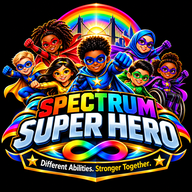
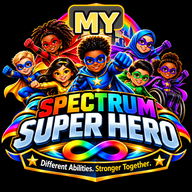
Add files via upload

Changed region(s): [[0.3438, 0.0, 0.6562, 0.1875]]

diff --git a/index.html b/index.html
@@ -1,9 +1,9 @@
 <!doctype html>
 <html lang="en">
 <head>
-<!-- Spectrum Super Hero Connected App v24 -->
+<!-- My My Spectrum Super Hero Connected App v24 -->
 <meta charset="utf-8"><meta name="viewport" content="width=device-width,initial-scale=1">
-<meta name="theme-color" content="#6b5cff"><link rel="manifest" href="manifest.webmanifest"><meta name="apple-mobile-web-app-capable" content="yes"><meta name="apple-mobile-web-app-status-bar-style" content="black-translucent"><link rel="apple-touch-icon" href="icon-192.png"><title>Spectrum Super Hero • v47</title>
+<meta name="theme-color" content="#6b5cff"><link rel="manifest" href="manifest.webmanifest"><meta name="apple-mobile-web-app-capable" content="yes"><meta name="apple-mobile-web-app-status-bar-style" content="black-translucent"><link rel="apple-touch-icon" href="icon-192.png"><title>My My Spectrum Super Hero • v50</title>
 <style>
 :root{--ink:#172033;--muted:#647084;--bg:#f6f8fc;--card:#fff;--brand:#6b5cff;--brand2:#ff7894;--line:#e5e9f2;--ok:#167a55;--warn:#795400}*{box-sizing:border-box}body{margin:0;font-family:-apple-system,BlinkMacSystemFont,"Segoe UI",system-ui,sans-serif;background:var(--bg);color:var(--ink)}button,input,select{font:inherit}button{cursor:pointer}.top{position:sticky;top:0;z-index:5;background:#fffffff2;border-bottom:1px solid var(--line);padding:12px 16px;display:flex;justify-content:space-between;align-items:center}.brand{display:flex;align-items:center;gap:10px;font-weight:800;font-size:18px}.mark{width:40px;height:40px;border-radius:50%;display:grid;place-items:center;color:#fff;font-weight:900;background:linear-gradient(135deg,#ff7894,#ffc857,#5ed1b8,#6b5cff)}.nav{display:flex;gap:6px;overflow:auto;background:#fff;border-bottom:1px solid var(--line);padding:8px 12px}.nav button{border:0;background:transparent;padding:9px 11px;border-radius:12px;color:var(--muted);white-space:nowrap}.nav button.active{background:#eeeaff;color:var(--brand);font-weight:700}.banner{padding:10px 14px;text-align:center;background:#fff7df;color:var(--warn);font-size:14px}.banner.ok{background:#eaf8f1;color:var(--ok)}.wrap{max-width:1050px;margin:auto;padding:20px 14px 80px}.hero{background:linear-gradient(135deg,#6b5cff,#8c7cff 48%,#ff7894);color:white;border-radius:24px;padding:28px;margin-bottom:22px}.hero h1{font-size:clamp(34px,8vw,56px);margin:0 0 8px}.hero p{font-size:18px;line-height:1.45;margin:5px 0}.section{display:none}.section.active{display:block}.grid{display:grid;grid-template-columns:repeat(auto-fit,minmax(220px,1fr));gap:14px}.card{background:#fff;border:1px solid var(--line);border-radius:18px;padding:17px;box-shadow:0 5px 18px #17203308}.card h3{margin:4px 0 8px}.card p{color:var(--muted);line-height:1.5}.pill{display:inline-block;padding:5px 9px;border-radius:999px;background:#f0efff;color:var(--brand);font-size:12px;font-weight:700}.cta{border:0;border-radius:12px;padding:11px 14px;background:var(--brand);color:white;font-weight:700}.secondary{background:#eef0f6;color:var(--ink)}.search{display:flex;gap:8px;margin:14px 0}.search input,.search select{width:100%;padding:12px;border:1px solid var(--line);border-radius:12px;background:#fff}.footer{text-align:center;color:var(--muted);font-size:13px;margin-top:28px}.profile-row{display:flex;justify-content:space-between;gap:10px;padding:12px 0;border-bottom:1px solid var(--line)}.stats-grid{display:grid;grid-template-columns:repeat(4,minmax(0,1fr));gap:12px;margin-top:14px}.stat{background:#f8f7ff;border:1px solid #e8e4ff;border-radius:16px;padding:16px}.stat strong{display:block;font-size:28px;margin-top:4px}.progress-track{height:10px;background:#edf0f5;border-radius:999px;overflow:hidden}.progress-bar{height:100%;background:linear-gradient(90deg,var(--brand),var(--brand2));border-radius:999px}.history-item{padding:13px 0;border-bottom:1px solid var(--line)}.history-item:last-child{border-bottom:0}.empty{color:var(--muted);padding:10px 0}@media(max-width:900px){.stats-grid{grid-template-columns:repeat(2,minmax(0,1fr))}}@media(max-width:600px){.stats-grid{grid-template-columns:1fr}}.modal{position:fixed;inset:0;background:#17203388;display:none;align-items:center;justify-content:center;padding:20px;z-index:20}.modal.open{display:flex}.modal-box{background:#fff;border-radius:20px;max-width:760px;width:100%;max-height:85vh;overflow:auto;padding:24px}.modal-actions{display:flex;gap:8px;flex-wrap:wrap;margin-top:16px}.lesson-intro{font-size:17px;line-height:1.65;color:var(--ink)}.modal-box h2{margin-top:8px}.modal-box h3{margin-bottom:8px}.feature-head{display:flex;justify-content:space-between;align-items:flex-start;gap:12px}.feature-icon{width:44px;height:44px;border-radius:14px;display:grid;place-items:center;background:#f0efff;color:var(--brand);font-weight:900;font-size:20px}.checklist{list-style:none;padding:0;margin:10px 0}.checklist li{display:flex;gap:10px;align-items:flex-start;padding:9px 0;border-bottom:1px solid var(--line);color:var(--muted);line-height:1.5}.checklist li:last-child{border-bottom:0}.check{width:22px;height:22px;accent-color:var(--brand);flex:0 0 auto}.tip{background:#f8f7ff;border:1px solid #e8e4ff;border-radius:14px;padding:14px;margin-top:14px}.mini-nav{display:flex;gap:8px;flex-wrap:wrap;margin:14px 0}.mini-nav button{border:1px solid var(--line);background:#fff;color:var(--ink);border-radius:999px;padding:8px 12px}.fact{border-left:5px solid var(--brand);padding:14px 16px;background:#fff;border-radius:12px}.myth{font-weight:800;color:#9b3852}.fact-title{font-weight:800;color:var(--ok)}@media(max-width:600px){.grid{grid-template-columns:1fr}.search{flex-direction:column}}
 
@@ -12,7 +12,7 @@ body.high-contrast{--ink:#000;--muted:#222;--bg:#fff;--card:#fff;--line:#111;--b
 
 .brand-logo{width:42px;height:42px;object-fit:cover;border-radius:12px;background:#111}.hero-logo{max-width:340px;margin:0 auto 18px;background:#101018;border-radius:22px;padding:10px;box-shadow:0 12px 35px #17203333}.hero-logo img{display:block;width:100%;height:auto;border-radius:16px}.top .brand span{font-size:17px}@media(max-width:600px){.brand-logo{width:38px;height:38px}.top .brand span{font-size:15px}.hero-logo{max-width:290px}}
 .superhero-visual{display:block;width:100%;max-width:900px;margin:18px auto 0;border-radius:20px;border:3px solid #ffffff66;box-shadow:0 12px 35px #17203344}.brand-logo{object-fit:contain;background:#101018}.hero-logo{background:#101018}
-/* Spectrum Super Hero v23 visual redesign */
+/* My My Spectrum Super Hero v23 visual redesign */
 :root{--ink:#18213a;--muted:#66718a;--bg:#eef3fb;--card:#fff;--brand:#6248ff;--brand2:#ff5f91;--cyan:#25c7e8;--yellow:#ffd34e;--green:#35c987;--line:#dce4f2;--navy:#10162d}
 body{background:radial-gradient(circle at 10% 0%,#dff8ff 0,transparent 25%),radial-gradient(circle at 90% 10%,#ffe1ed 0,transparent 28%),var(--bg);color:var(--ink)}
 .top{background:linear-gradient(135deg,#10162d,#25245a 58%,#5d3dff);color:#fff;border:0;padding:12px 18px;box-shadow:0 8px 28px #10162d25}
@@ -138,11 +138,11 @@ body{background:radial-gradient(circle at 10% 0%,#dff8ff 0,transparent 25%),radi
 </style>
 </style></head>
 <body>
-<header class="top"><div class="brand"><img class="brand-logo" src="icon-192.png" alt="Spectrum Super Hero logo"><span>Spectrum Super Hero</span></div><div class="top-actions"><div class="top-profile-chip" id="topProfileChip"><span class="avatar" id="topProfileAvatar">🦸</span><span id="topProfileName">My Super Hero</span></div><button class="cta dashboard-top" onclick="show('dashboard')">⭐ My Dashboard</button><button class="cta secondary" onclick="show('journey')">🦸 My Journey</button><button class="cta secondary reward-top" onclick="show('rewards')">🏆 Rewards</button><button class="cta secondary" onclick="show('badges')">🏅 Badges</button><button class="cta secondary" id="profileTopButton" onclick="show('profile')">Profile</button></div></header>
+<header class="top"><div class="brand"><img class="brand-logo" src="icon-192.png" alt="My My Spectrum Super Hero logo"><span>My My Spectrum Super Hero</span></div><div class="top-actions"><div class="top-profile-chip" id="topProfileChip"><span class="avatar" id="topProfileAvatar">🦸</span><span id="topProfileName">My Super Hero</span></div><button class="cta dashboard-top" onclick="show('dashboard')">⭐ My Dashboard</button><button class="cta secondary" onclick="show('journey')">🦸 My Journey</button><button class="cta secondary reward-top" onclick="show('rewards')">🏆 Rewards</button><button class="cta secondary" onclick="show('badges')">🏅 Badges</button><button class="cta secondary" id="profileTopButton" onclick="show('profile')">Profile</button></div></header>
 <nav class="nav" id="nav"></nav>
-<div class="banner" id="banner">Connecting to Spectrum Super Hero cloud data…</div>
+<div class="banner" id="banner">Connecting to My My Spectrum Super Hero cloud data…</div>
 <main class="wrap">
-<section id="home" class="section active"><div class="hero"><div class="hero-logo"><img src="spectrum-super-hero-kids-logo.png" alt="Spectrum Super Hero logo featuring diverse superhero kids"></div><h1>Spectrum Super Hero</h1><p>Different Abilities. Stronger Together.</p><p>A welcoming place to learn, find practical support, celebrate differences, and build inclusive communities.</p><div class="modal-actions"><button class="cta" onclick="startWelcome(true)">Start here</button><button class="cta secondary" onclick="show('quiz')">Test your knowledge</button></div></div><div class="card" style="margin:-4px 0 22px;background:linear-gradient(135deg,#10162d,#25245a);color:white;border:0"><div class="feature-head"><div><span class="pill" style="background:#ffffff18;color:#fff">SUPER HERO MISSION</span><h3 style="font-size:24px;margin-top:9px;color:#fff">Learn. Connect. Advocate.</h3><p style="color:#dce3ff;margin-bottom:0">Choose a path below and build your own support and learning journey.</p></div><div class="feature-icon" style="background:#ffffff18;color:#fff">★</div></div></div><h2>What do you need today?</h2><div class="grid" id="needs"></div><div class="card" id="nextStepCard" style="margin-top:18px"><div class="feature-head"><div><span class="pill">Your next step</span><h3 id="nextStepTitle">Start with a lesson</h3></div><div class="feature-icon">★</div></div><p id="nextStepText">Choose a topic to begin building your Spectrum Super Hero learning path.</p><div class="modal-actions"><button class="cta" id="nextStepButton" onclick="show('learn')">Explore lessons</button><button class="cta secondary" onclick="show('dashboard')">View progress</button></div></div><div class="tip" style="margin-top:18px"><strong>Accessibility first:</strong> Change text size, contrast, motion, and layout preferences from Profile.</div></section>
+<section id="home" class="section active"><div class="hero"><div class="hero-logo"><img src="my-spectrum-super-hero-logo.png" alt="My My Spectrum Super Hero logo featuring diverse superhero kids"></div><h1>My My Spectrum Super Hero</h1><p>Different Abilities. Stronger Together.</p><p>A welcoming place to learn, find practical support, celebrate differences, and build inclusive communities.</p><div class="modal-actions"><button class="cta" onclick="startWelcome(true)">Start here</button><button class="cta secondary" onclick="show('quiz')">Test your knowledge</button></div></div><div class="card" style="margin:-4px 0 22px;background:linear-gradient(135deg,#10162d,#25245a);color:white;border:0"><div class="feature-head"><div><span class="pill" style="background:#ffffff18;color:#fff">SUPER HERO MISSION</span><h3 style="font-size:24px;margin-top:9px;color:#fff">Learn. Connect. Advocate.</h3><p style="color:#dce3ff;margin-bottom:0">Choose a path below and build your own support and learning journey.</p></div><div class="feature-icon" style="background:#ffffff18;color:#fff">★</div></div></div><h2>What do you need today?</h2><div class="grid" id="needs"></div><div class="card" id="nextStepCard" style="margin-top:18px"><div class="feature-head"><div><span class="pill">Your next step</span><h3 id="nextStepTitle">Start with a lesson</h3></div><div class="feature-icon">★</div></div><p id="nextStepText">Choose a topic to begin building your My My Spectrum Super Hero learning path.</p><div class="modal-actions"><button class="cta" id="nextStepButton" onclick="show('learn')">Explore lessons</button><button class="cta secondary" onclick="show('dashboard')">View progress</button></div></div><div class="tip" style="margin-top:18px"><strong>Accessibility first:</strong> Change text size, contrast, motion, and layout preferences from Profile.</div></section>
 <section id="learn" class="section"><h1>Learn & Understand</h1><p>Explore person-centered information about autism, communication, sensory experiences, support, strengths, and inclusion.</p><div class="grid" id="topics"><div class="card">Loading learning topics…</div></div>
 <div class="guided-lessons">
 <h2>Guided lessons</h2>
@@ -166,8 +166,8 @@ body{background:radial-gradient(circle at 10% 0%,#dff8ff 0,transparent 25%),radi
 <section id="resources" class="section">
   <div class="resource-finder">
     <h1>Resource Finder</h1>
-    <p>Find verified organizations and services published in Spectrum Super Hero. These listings come from the Spectrum Super Hero cloud resource directory.</p>
-    <div class="tip"><strong>Resource safety:</strong> Spectrum Super Hero does not endorse a service simply because it appears here. Check eligibility, location, cost, accessibility, and current availability with the provider.</div>
+    <p>Find verified organizations and services published in My My Spectrum Super Hero. These listings come from the My My Spectrum Super Hero cloud resource directory.</p>
+    <div class="tip"><strong>Resource safety:</strong> My My Spectrum Super Hero does not endorse a service simply because it appears here. Check eligibility, location, cost, accessibility, and current availability with the provider.</div>
     <div id="resourceCloudStatus" class="empty" style="margin-top:12px">Connecting to the verified resource directory…</div><div id="resourceDiagnostics" class="empty" style="margin-top:6px;font-size:12px;display:none"></div>
     <div class="resource-filters">
       <input id="resourceSearch" placeholder="Search by organization, service, city, or category…" oninput="filterResources()" aria-label="Search resources">
@@ -283,7 +283,7 @@ body{background:radial-gradient(circle at 10% 0%,#dff8ff 0,transparent 25%),radi
   <div class="card">
     <span class="pill">Make it yours</span>
     <h2>Choose your hero name</h2>
-    <p>This name is stored on this device and is only used to personalize your Spectrum Super Hero journey.</p>
+    <p>This name is stored on this device and is only used to personalize your My My Spectrum Super Hero journey.</p>
     <div class="search">
       <input class="hero-name-input" id="heroNameInput" maxlength="40" placeholder="Enter your hero name">
       <button class="cta" onclick="saveHeroName()">Save hero name</button>
@@ -356,7 +356,7 @@ body{background:radial-gradient(circle at 10% 0%,#dff8ff 0,transparent 25%),radi
   <div class="card">
     <span class="pill">How it works</span>
     <h2>Learn → Earn → Level up</h2>
-    <p>Your activity in Spectrum Super Hero can turn into progress. Complete lessons, save helpful information, and take quizzes to earn XP.</p>
+    <p>Your activity in My My Spectrum Super Hero can turn into progress. Complete lessons, save helpful information, and take quizzes to earn XP.</p>
     <div class="reward-grid">
       <div class="reward-card"><div class="reward-icon">📚</div><h3>Learn</h3><p>10 XP for each completed learning topic.</p></div>
       <div class="reward-card"><div class="reward-icon">🔖</div><h3>Save</h3><p>15 XP for each saved topic or resource.</p></div>
@@ -398,7 +398,7 @@ body{background:radial-gradient(circle at 10% 0%,#dff8ff 0,transparent 25%),radi
   <div class="hero-profile-top">
     <div style="display:flex;gap:16px;align-items:center">
       <div class="hero-avatar" id="profileHeroAvatar">🦸🏽</div>
-      <div class="hero-profile-title"><span class="pill">SPECTRUM SUPER HERO</span><h2 id="profileHeroName">My Super Hero</h2><p id="profileHeroRole">Learning. Growing. Making a difference.</p></div>
+      <div class="hero-profile-title"><span class="pill">MY MY SPECTRUM SUPER HERO</span><h2 id="profileHeroName">My Super Hero</h2><p id="profileHeroRole">Learning. Growing. Making a difference.</p></div>
     </div>
     <div style="text-align:right"><span class="pill">Level <strong id="profileHeroLevel">1</strong></span><div style="font-size:22px;font-weight:900;margin-top:5px" id="profileHeroXp">0 XP</div></div>
   </div>
@@ -415,15 +415,15 @@ body{background:radial-gradient(circle at 10% 0%,#dff8ff 0,transparent 25%),radi
   <div style="margin-top:18px"><strong>Badges</strong><div class="profile-badge-row" id="profileBadgeRow"></div></div>
   <div class="modal-actions"><button class="cta" onclick="show('journey')">Open My Journey</button><button class="cta secondary" onclick="show('dashboard')">View Dashboard</button></div>
 </div>
-<div class="card" style="margin-top:14px"><h3>Account</h3><div class="card"><h3>Account</h3><p id="authMessage">Checking your Spectrum Super Hero account…</p><div class="search"><input id="email" type="email" placeholder="Email"><input id="password" type="password" placeholder="Password"></div><button class="cta" onclick="signUp()">Create account</button> <button class="cta secondary" onclick="signIn()">Sign in</button> <button class="cta secondary" onclick="signOutUser()">Sign out</button></div><div class="stats-grid"><div class="stat"><span class="pill">Saved</span><strong id="savedCount">0</strong><span>topics & resources</span></div><div class="stat"><span class="pill">Lessons</span><strong id="completedTopicCount">0</strong><span>completed topics</span></div><div class="stat"><span class="pill">Quizzes</span><strong id="quizCount">0</strong><span>completed attempts</span></div><div class="stat"><span class="pill">Best score</span><strong id="bestScore">—</strong><span>highest percentage</span></div></div><div class="card" style="margin-top:14px"><h3>Your progress</h3><div class="profile-row"><span>Account status</span><strong id="accountState">Checking…</strong></div><div class="profile-row"><span>Saved learning topics</span><strong id="savedTopicsCount">0</strong></div><div class="profile-row"><span>Saved resources</span><strong id="savedResourcesCount">0</strong></div><div class="profile-row"><span>Lessons completed</span><strong id="completedTopicCount2">0</strong></div><div class="profile-row"><span>Quiz completion</span><strong id="quizProgressText">0%</strong></div><div class="progress-track"><div id="quizProgressBar" class="progress-bar" style="width:0%"></div></div><div class="profile-row"><span>Text size</span><select id="textSize" onchange="setTextSize(this.value)"><option value="16px">Standard</option><option value="18px">Large</option><option value="20px">Extra large</option></select></div></div><div class="card" style="margin-top:14px"><h3>Accessibility settings</h3><p>These settings stay on this device so Spectrum Super Hero can adapt to your preferences.</p><div class="settings-grid"><label class="setting"><span><strong>Large text</strong><br><small>Increase reading size</small></span><input id="largeTextToggle" type="checkbox" onchange="toggleLargeText(this.checked)"></label><label class="setting"><span><strong>High contrast</strong><br><small>Increase visual contrast</small></span><input id="contrastToggle" type="checkbox" onchange="toggleContrast(this.checked)"></label><label class="setting"><span><strong>Reduce motion</strong><br><small>Limit animations</small></span><input id="motionToggle" type="checkbox" onchange="toggleMotion(this.checked)"></label><label class="setting"><span><strong>Compact layout</strong><br><small>Use tighter spacing</small></span><input id="compactToggle" type="checkbox" onchange="toggleCompact(this.checked)"></label></div><div class="modal-actions"><button class="cta secondary" onclick="resetAccessibility()">Reset accessibility settings</button><button class="cta secondary" onclick="startWelcome(true)">Show Start Here</button></div></div><div class="card" style="margin-top:14px"><h3>Recent quiz history</h3><div id="quizHistory"><div class="empty">Sign in to see your quiz history.</div></div></div><div class="card" style="margin-top:14px"><h3>Saved content</h3><div id="savedContent"><div class="empty">Sign in to see your saved topics and resources.</div></div></div></section>
-<div class="footer">Spectrum Super Hero • Different Abilities. Stronger Together.</div>
+<div class="card" style="margin-top:14px"><h3>Account</h3><div class="card"><h3>Account</h3><p id="authMessage">Checking your My My Spectrum Super Hero account…</p><div class="search"><input id="email" type="email" placeholder="Email"><input id="password" type="password" placeholder="Password"></div><button class="cta" onclick="signUp()">Create account</button> <button class="cta secondary" onclick="signIn()">Sign in</button> <button class="cta secondary" onclick="signOutUser()">Sign out</button></div><div class="stats-grid"><div class="stat"><span class="pill">Saved</span><strong id="savedCount">0</strong><span>topics & resources</span></div><div class="stat"><span class="pill">Lessons</span><strong id="completedTopicCount">0</strong><span>completed topics</span></div><div class="stat"><span class="pill">Quizzes</span><strong id="quizCount">0</strong><span>completed attempts</span></div><div class="stat"><span class="pill">Best score</span><strong id="bestScore">—</strong><span>highest percentage</span></div></div><div class="card" style="margin-top:14px"><h3>Your progress</h3><div class="profile-row"><span>Account status</span><strong id="accountState">Checking…</strong></div><div class="profile-row"><span>Saved learning topics</span><strong id="savedTopicsCount">0</strong></div><div class="profile-row"><span>Saved resources</span><strong id="savedResourcesCount">0</strong></div><div class="profile-row"><span>Lessons completed</span><strong id="completedTopicCount2">0</strong></div><div class="profile-row"><span>Quiz completion</span><strong id="quizProgressText">0%</strong></div><div class="progress-track"><div id="quizProgressBar" class="progress-bar" style="width:0%"></div></div><div class="profile-row"><span>Text size</span><select id="textSize" onchange="setTextSize(this.value)"><option value="16px">Standard</option><option value="18px">Large</option><option value="20px">Extra large</option></select></div></div><div class="card" style="margin-top:14px"><h3>Accessibility settings</h3><p>These settings stay on this device so My My Spectrum Super Hero can adapt to your preferences.</p><div class="settings-grid"><label class="setting"><span><strong>Large text</strong><br><small>Increase reading size</small></span><input id="largeTextToggle" type="checkbox" onchange="toggleLargeText(this.checked)"></label><label class="setting"><span><strong>High contrast</strong><br><small>Increase visual contrast</small></span><input id="contrastToggle" type="checkbox" onchange="toggleContrast(this.checked)"></label><label class="setting"><span><strong>Reduce motion</strong><br><small>Limit animations</small></span><input id="motionToggle" type="checkbox" onchange="toggleMotion(this.checked)"></label><label class="setting"><span><strong>Compact layout</strong><br><small>Use tighter spacing</small></span><input id="compactToggle" type="checkbox" onchange="toggleCompact(this.checked)"></label></div><div class="modal-actions"><button class="cta secondary" onclick="resetAccessibility()">Reset accessibility settings</button><button class="cta secondary" onclick="startWelcome(true)">Show Start Here</button></div></div><div class="card" style="margin-top:14px"><h3>Recent quiz history</h3><div id="quizHistory"><div class="empty">Sign in to see your quiz history.</div></div></div><div class="card" style="margin-top:14px"><h3>Saved content</h3><div id="savedContent"><div class="empty">Sign in to see your saved topics and resources.</div></div></div></section>
+<div class="footer">My My Spectrum Super Hero • Different Abilities. Stronger Together.</div>
 </main>
-<div id="welcome" class="welcome" onclick="if(event.target===this)closeWelcome()"><div class="welcome-box"><span class="pill">WELCOME TO SPECTRUM SUPER HERO</span><h2>Start where you need support.</h2><p class="lesson-intro">Learn, find practical support, and build more inclusive spaces.</p><div class="card" style="margin-top:16px"><strong>Who are you using Spectrum Super Hero for?</strong><div class="quick-links" style="margin-top:10px"><button class="quick-link" onclick="chooseRole('autistic')"><strong>Autistic person</strong><span>Tools, information, and self-advocacy.</span></button><button class="quick-link" onclick="chooseRole('family')"><strong>Family member</strong><span>Support and practical ideas.</span></button><button class="quick-link" onclick="chooseRole('educator')"><strong>Educator or school staff</strong><span>Inclusive learning strategies.</span></button><button class="quick-link" onclick="chooseRole('ally')"><strong>Ally or community member</strong><span>Learn how to support inclusion.</span></button></div></div><div class="quick-links"><button class="quick-link" onclick="welcomeGo('learn')"><strong>Learn</strong><span>Understand autism and neurodiversity.</span></button><button class="quick-link" onclick="welcomeGo('communication')"><strong>Communication</strong><span>Explore different communication methods.</span></button><button class="quick-link" onclick="welcomeGo('sensory')"><strong>Sensory</strong><span>Make environments more accessible.</span></button><button class="quick-link" onclick="welcomeGo('resources')"><strong>Resources</strong><span>Find verified organizations.</span></button><button class="quick-link" onclick="welcomeGo('families')"><strong>Families</strong><span>Find practical caregiver support.</span></button><button class="quick-link" onclick="welcomeGo('quiz')"><strong>Quiz</strong><span>Test what you know.</span></button></div><div class="modal-actions"><button class="cta" onclick="closeWelcome()">Enter Spectrum Super Hero</button><button class="cta secondary" onclick="welcomeGo('profile')">Set accessibility</button></div></div></div><div id="modal" class="modal" onclick="if(event.target===this)closeModal()"><div class="modal-box"><div id="modalContent"></div></div></div>
+<div id="welcome" class="welcome" onclick="if(event.target===this)closeWelcome()"><div class="welcome-box"><span class="pill">WELCOME TO MY MY SPECTRUM SUPER HERO</span><h2>Start where you need support.</h2><p class="lesson-intro">Learn, find practical support, and build more inclusive spaces.</p><div class="card" style="margin-top:16px"><strong>Who are you using My My Spectrum Super Hero for?</strong><div class="quick-links" style="margin-top:10px"><button class="quick-link" onclick="chooseRole('autistic')"><strong>Autistic person</strong><span>Tools, information, and self-advocacy.</span></button><button class="quick-link" onclick="chooseRole('family')"><strong>Family member</strong><span>Support and practical ideas.</span></button><button class="quick-link" onclick="chooseRole('educator')"><strong>Educator or school staff</strong><span>Inclusive learning strategies.</span></button><button class="quick-link" onclick="chooseRole('ally')"><strong>Ally or community member</strong><span>Learn how to support inclusion.</span></button></div></div><div class="quick-links"><button class="quick-link" onclick="welcomeGo('learn')"><strong>Learn</strong><span>Understand autism and neurodiversity.</span></button><button class="quick-link" onclick="welcomeGo('communication')"><strong>Communication</strong><span>Explore different communication methods.</span></button><button class="quick-link" onclick="welcomeGo('sensory')"><strong>Sensory</strong><span>Make environments more accessible.</span></button><button class="quick-link" onclick="welcomeGo('resources')"><strong>Resources</strong><span>Find verified organizations.</span></button><button class="quick-link" onclick="welcomeGo('families')"><strong>Families</strong><span>Find practical caregiver support.</span></button><button class="quick-link" onclick="welcomeGo('quiz')"><strong>Quiz</strong><span>Test what you know.</span></button></div><div class="modal-actions"><button class="cta" onclick="closeWelcome()">Enter My My Spectrum Super Hero</button><button class="cta secondary" onclick="welcomeGo('profile')">Set accessibility</button></div></div></div><div id="modal" class="modal" onclick="if(event.target===this)closeModal()"><div class="modal-box"><div id="modalContent"></div></div></div>
 <script>
 const URL='https://vikqscjsrwcgpyfznvbc.supabase.co';
 const KEY='sb_publishable_eKwVX8ZjRYadJQIe-24c2A_BpcPLNQ9';
 const H={apikey:KEY,Authorization:'Bearer '+KEY,'Content-Type':'application/json'};
-let topics=[],resources=[],session=null,savedTopicIds=new Set(),savedResourceIds=new Set();
+let topics=[],resources=[],session=null;
 let cloudProgressLoaded=false, cloudProgressSaving=false;
 
 const esc=s=>String(s??'').replace(/[&<>'"]/g,c=>({'&':'&amp;','<':'&lt;','>':'&gt;',"'":'&#39;','"':'&quot;'}[c]));
@@ -580,7 +580,7 @@ const needs=[['learn','I want to learn'],['communication','Communication help'],
 const needDescriptions={learn:'Short, person-centered lessons and practical information.',communication:'Ways to support communication without requiring one style.',sensory:'Learn about sensory differences and accessible environments.',families:'Practical support for families and caregivers.',educators:'Inclusive classroom and school strategies.',resources:'Find verified organizations and community resources.',acceptance:'Build respectful, accessible, inclusive spaces.',quiz:'Take the 8-question Autism Basics quiz.'};document.getElementById('needs').innerHTML=needs.map(x=>`<button class="card" style="text-align:left" onclick="show('${x[0]}')"><h3>${x[1]}</h3><p>${needDescriptions[x[0]]}</p><span class="pill">Open</span></button>`).join('');
 function authHeaders(){return session?.access_token?{apikey:KEY,Authorization:'Bearer '+session.access_token,'Content-Type':'application/json'}:H;}
 function authedApi(path,opt={}){return fetch(URL+path,{...opt,headers:{...authHeaders(),...(opt.headers||{})}}).then(async r=>{let d=null;try{d=await r.json()}catch{}if(!r.ok)throw new Error(d?.message||d?.error_description||('Request failed '+r.status));return d});}
-
+let savedTopicIds=new Set(),savedResourceIds=new Set();
 async function loadSaved(){savedTopicIds=new Set();savedResourceIds=new Set();if(!session?.user?.id)return;try{let [st,sr]=await Promise.all([authedApi('/rest/v1/saved_topics?select=topic_id'),authedApi('/rest/v1/saved_resources?select=resource_id')]);savedTopicIds=new Set((st||[]).map(x=>x.topic_id));savedResourceIds=new Set((sr||[]).map(x=>x.resource_id));}catch(e){console.warn('Saved content could not be loaded',e.message);document.getElementById('savedCount').textContent='Error';document.getElementById('authMessage').textContent='Signed in as '+session.user.email+' • Saved items could not be read: '+e.message;}}
 async function toggleTopicSave(id){if(!session?.user?.id){alert('Please sign in to save a topic.');show('profile');return}try{if(savedTopicIds.has(id)){await authedApi(`/rest/v1/saved_topics?user_id=eq.${encodeURIComponent(session.user.id)}&topic_id=eq.${encodeURIComponent(id)}`,{method:'DELETE'});savedTopicIds.delete(id);}else{await authedApi('/rest/v1/saved_topics',{method:'POST',headers:{Prefer:'return=minimal,resolution=ignore-duplicates'},body:JSON.stringify({user_id:session.user.id,topic_id:id})});savedTopicIds.add(id);}renderTopics();updateAccount();syncBadgeState();if(document.getElementById('modal').classList.contains('open'))openTopic(id);}catch(e){alert('Could not save topic: '+e.message);}}
 async function toggleResourceSave(id){if(!session?.user?.id){alert('Please sign in to save a resource.');show('profile');return}try{if(savedResourceIds.has(id)){await authedApi(`/rest/v1/saved_resources?user_id=eq.${encodeURIComponent(session.user.id)}&resource_id=eq.${encodeURIComponent(id)}`,{method:'DELETE'});savedResourceIds.delete(id);}else{await authedApi('/rest/v1/saved_resources',{method:'POST',headers:{Prefer:'return=minimal,resolution=ignore-duplicates'},body:JSON.stringify({user_id:session.user.id,resource_id:id})});savedResourceIds.add(id);}filterResources();updateAccount();syncBadgeState();}catch(e){alert('Could not save resource: '+e.message);}}
@@ -661,7 +661,7 @@ function closeModal(){document.getElementById('modal').classList.remove('open');
 function renderTopics(){document.getElementById('topics').innerHTML=topics.length?topics.map(t=>`<div class="card"><span class="pill">${esc(t.category||'LEARN')}</span><h3>${esc(t.title)}</h3><p>${esc(t.summary||t.content||'')}</p><div class="modal-actions"><button class="cta" onclick="openTopic('${esc(t.id)}')">Read more</button><button class="cta secondary" onclick="toggleTopicSave('${esc(t.id)}')">${savedTopicIds.has(t.id)?'Saved ✓':'Save'}</button></div></div>`).join(''):'<div class="card"><h3>No learning topics found</h3></div>';}
 function renderResources(){if(typeof filterResources==='function')filterResources();}
 function clearResourceFilters(){const q=document.getElementById('resourceSearch'),a=document.getElementById('area');if(q)q.value='';if(a)a.value='';renderResources();}
-document.getElementById('resourceSearch').addEventListener('input',renderResources);document.getElementById('resourceArea')?.addEventListener('change',renderResources);
+document.getElementById('resourceSearch').addEventListener('input',renderResources);document.getElementById('area').addEventListener('change',renderResources);
 
 const quizQuestions=[
  {q:'Which statement best describes autism?',a:['A temporary illness that can be cured','A neurodevelopmental difference that can affect communication, interaction, sensory experiences, and behavior','A condition that affects every person in exactly the same way','A problem caused by poor parenting'],c:1,e:'Autism is a neurodevelopmental difference, and autistic people can have very different strengths, preferences, communication styles, and support needs.'},
@@ -941,7 +941,7 @@ async function saveCloudProgress(extra={}){
 
 function persistCompletedTopics(){localStorage.setItem('ssh_completed_topics',JSON.stringify([...completedTopicIds]));}
 function toggleTopicComplete(id){if(completedTopicIds.has(id))completedTopicIds.delete(id);else completedTopicIds.add(id);persistCompletedTopics();saveCloudProgress();updateLearningProgress();syncBadgeState();if(document.getElementById('modal').classList.contains('open'))openTopic(id);}
-function updateLearningProgress(){const n=completedTopicIds.size;const a=document.getElementById('completedTopicCount');const b=document.getElementById('completedTopicCount2');if(a)a.textContent=String(n);if(b)b.textContent=String(n);const title=document.getElementById('nextStepTitle'),text=document.getElementById('nextStepText'),btn=document.getElementById('nextStepButton');if(!title)return;if(n>=topics.length&&topics.length){title.textContent='You completed the starter lessons';text.textContent='Great work. Keep exploring resources, communication supports, sensory access, and the quiz.';btn.textContent='Take the quiz';btn.onclick=()=>show('quiz');}else if(n){title.textContent=`Keep going — ${n} lesson${n===1?'':'s'} completed`;text.textContent='Choose another lesson or test your knowledge to keep building your progress.';btn.textContent='Continue learning';btn.onclick=()=>show('learn');}else{title.textContent='Start with a lesson';text.textContent='Choose a topic to begin building your Spectrum Super Hero learning path.';btn.textContent='Explore lessons';btn.onclick=()=>show('learn');}}
+function updateLearningProgress(){const n=completedTopicIds.size;const a=document.getElementById('completedTopicCount');const b=document.getElementById('completedTopicCount2');if(a)a.textContent=String(n);if(b)b.textContent=String(n);const title=document.getElementById('nextStepTitle'),text=document.getElementById('nextStepText'),btn=document.getElementById('nextStepButton');if(!title)return;if(n>=topics.length&&topics.length){title.textContent='You completed the starter lessons';text.textContent='Great work. Keep exploring resources, communication supports, sensory access, and the quiz.';btn.textContent='Take the quiz';btn.onclick=()=>show('quiz');}else if(n){title.textContent=`Keep going — ${n} lesson${n===1?'':'s'} completed`;text.textContent='Choose another lesson or test your knowledge to keep building your progress.';btn.textContent='Continue learning';btn.onclick=()=>show('learn');}else{title.textContent='Start with a lesson';text.textContent='Choose a topic to begin building your My My Spectrum Super Hero learning path.';btn.textContent='Explore lessons';btn.onclick=()=>show('learn');}}
 function chooseRole(role){localStorage.setItem('ssh_role',role);localStorage.setItem('ssh_hero_role',role);refreshProfileChrome();closeWelcome();const map={autistic:'learn',family:'families',educator:'educators',ally:'acceptance'};show(map[role]||'learn');}
 function restoreRole(){const role=localStorage.getItem('ssh_role');if(!role)return;const labels={autistic:'Autistic person',family:'Family member',educator:'Educator or school staff',ally:'Ally or community member'};const card=document.getElementById('nextStepCard');if(card){const p=card.querySelector('.pill');if(p)p.textContent=`For: ${labels[role]||'You'}`;}}
 function setBanner(t,ok=false){let b=document.getElementById('banner');b.textContent=t;b.className='banner'+(ok?' ok':'');}
@@ -955,9 +955,7 @@ async function loadData(){
   let resourceError='';
   try{
     const r=await api('/rest/v1/resources?select=id,name,description,category,website_url,phone,location_name,state_code,city,audience,accessibility_notes,eligibility_notes,cost_notes,verification_status,last_verified_at&verification_status=eq.verified&order=name');
-        console.log('SPECTRUM RESOURCE RESPONSE:', r);
-        resources = Array.isArray(r) ? r : (Array.isArray(r?.data) ? r.data : []);
-        resources=Array.isArray(r)?r:(Array.isArray(r?.data)?r.data:[]);
+    resources=Array.isArray(r)?r:[];
     diagnostics.push('resources verified query: '+resources.length+' rows');
   }catch(e){
     resourceError=e?.message||String(e);
@@ -965,7 +963,7 @@ async function loadData(){
     resources=[];
     try{
       const r2=await api('/rest/v1/resources?select=id,name,verification_status&verification_status=eq.verified&order=name');
-      resources=Array.isArray(r2)?r2:(Array.isArray(r2?.data)?r2.data:[]);
+      resources=Array.isArray(r2)?r2:[];
       diagnostics.push('resources minimal verified query: '+resources.length+' rows');
       resourceError='';
     }catch(e2){
@@ -990,8 +988,8 @@ async function loadData(){
   try{populateResourceFilters();}catch(e){diagnostics.push('resource filters ERROR: '+(e?.message||String(e)));}
   try{filterResources({preserveStatus:true});}catch(e){diagnostics.push('resource filter UI ERROR: '+(e?.message||String(e)));}
   if(resources.length){
-    setBanner(`Connected to Spectrum Super Hero cloud data • ${topics.length} learning topics • ${resources.length} verified resources`,true);
-    if(rs)rs.innerHTML='☁ Connected to the verified Spectrum Super Hero resource directory • '+resources.length+' verified resources.';
+    setBanner(`Connected to My My Spectrum Super Hero cloud data • ${topics.length} learning topics • ${resources.length} verified resources`,true);
+    if(rs)rs.innerHTML='☁ Connected to the verified My My Spectrum Super Hero resource directory • '+resources.length+' verified resources.';
   }else if(resourceError){
     setBanner('Supabase resource access needs attention.',false);
     if(rs)rs.innerHTML='⚠ Resource query failed.<br><small>'+esc(diagnostics.join(' • '))+'</small><br><button class="guided-btn" style="margin-top:8px" onclick="loadData()">Retry cloud resources</button>';
@@ -1000,14 +998,14 @@ async function loadData(){
     if(rs)rs.innerHTML='☁ Supabase returned 0 verified resource rows.<br><small>'+esc(diagnostics.join(' • '))+'</small><br><button class="guided-btn" style="margin-top:8px" onclick="loadData()">Retry cloud resources</button>';
   }
   window.__resourceDiagnostics=diagnostics;
-  const diag=document.getElementById('resourceDiagnostics'); if(diag){diag.textContent='DEBUG: resources='+resources.length+' | '+diagnostics.join(' • ');diag.style.display='block';}
+  const diag=document.getElementById('resourceDiagnostics'); if(diag){diag.textContent=diagnostics.join(' • ');diag.style.display='block';}
 }
 async function saveSession(s){session=s;if(s)localStorage.setItem('bd_session',JSON.stringify(s));else localStorage.removeItem('bd_session');cloudProgressLoaded=false;await loadSaved();if(s)await loadCloudProgress();renderTopics();renderResources();updateAccount();}
 function updateAccount(){updateLearningProgress();restoreRole();renderDashboard();renderJourney();renderRewards();renderBadgeCabinet();document.getElementById('accountState').textContent=session?.user?.email||'Signed out';document.getElementById('authMessage').textContent=session?.user?.email?`Signed in as ${session.user.email}`:'Not signed in';document.getElementById('savedCount').textContent=String(savedTopicIds.size+savedResourceIds.size);renderSavedContent();loadQuizProgress();}
 async function signUp(){let email=document.getElementById('email').value.trim(),password=document.getElementById('password').value;if(!email||!password){document.getElementById('authMessage').textContent='Enter an email and password.';return}try{let d=await api('/auth/v1/signup',{method:'POST',body:JSON.stringify({email,password})});saveSession(d.session);document.getElementById('authMessage').textContent=d.session?'Account created and signed in.':'Account created. Check your email if confirmation is enabled.';}catch(e){document.getElementById('authMessage').textContent=e.message;}}
 async function signIn(){let email=document.getElementById('email').value.trim(),password=document.getElementById('password').value;try{let d=await api('/auth/v1/token?grant_type=password',{method:'POST',body:JSON.stringify({email,password})});saveSession(d);document.getElementById('authMessage').textContent='Signed in.';}catch(e){document.getElementById('authMessage').textContent=e.message;}}
 function signOutUser(){saveSession(null);document.getElementById('authMessage').textContent='Signed out.';}
-try{session=JSON.parse(localStorage.getItem('bd_session')||'null')}catch{}restoreAccessibility();setTimeout(()=>{try{refreshProfileChrome();updateAccount();if(session?.user?.id)loadCloudProgress();updateLearningProgress();renderDashboard();renderJourney();renderRewards();renderBadgeCabinet();renderHeroProfile();}catch(e){console.warn('Startup UI deferred:',e.message)}},250);setTimeout(()=>startWelcome(false),500);
+try{session=JSON.parse(localStorage.getItem('bd_session')||'null')}catch{}restoreAccessibility();refreshProfileChrome();updateAccount();loadData();if(session?.user?.id)loadCloudProgress();setTimeout(()=>startWelcome(false),450);
 </script>
 <div id="levelupOverlay" class="levelup-overlay" role="dialog" aria-modal="true" aria-label="Super Hero level up">
   <div class="levelup-card">
@@ -1126,7 +1124,7 @@ function filterResources(opts={}){
     .filter(r=>!a||resourceAudienceList(r).includes(a))
     .filter(r=>!area||resourceArea(r)===area);
   const count=document.getElementById('resourceCount'),out=document.getElementById('resourceResults'),status=document.getElementById('resourceCloudStatus');
-  if(status && !opts.preserveStatus && !window.__resourceDiagnostics?.length) status.textContent=list.length?`☁ Connected to the verified Spectrum Super Hero resource directory • ${list.length} verified resource${list.length===1?'':'s'}`:'☁ Connected, but no verified resources are currently published.';
+  if(status && !opts.preserveStatus && !window.__resourceDiagnostics?.length) status.textContent=list.length?`☁ Connected to the verified My My Spectrum Super Hero resource directory • ${list.length} verified resource${list.length===1?'':'s'}`:'☁ Connected, but no verified resources are currently published.';
   if(count)count.textContent=`Showing ${rows.length} of ${list.length} verified resources`;
   if(!out)return;
   if(!rows.length){out.innerHTML='<div class="resource-empty"><strong>No resources match those filters.</strong><br>Try a broader search or another area.</div>';return;}
@@ -1162,7 +1160,5 @@ async function reportResource(id){
   }catch(e){alert('Could not submit the report: '+e.message);}
 }
 window.addEventListener('load',()=>setTimeout(()=>{populateResourceFilters();filterResources();},250));
-
-setTimeout(()=>loadData(),500);
 </script>
 </body></html>

diff --git a/README.md b/README.md
@@ -1,4 +1,4 @@
-Spectrum Super Hero v48
+My My Spectrum Super Hero v50
 
 Resource Finder cloud fix.
 
